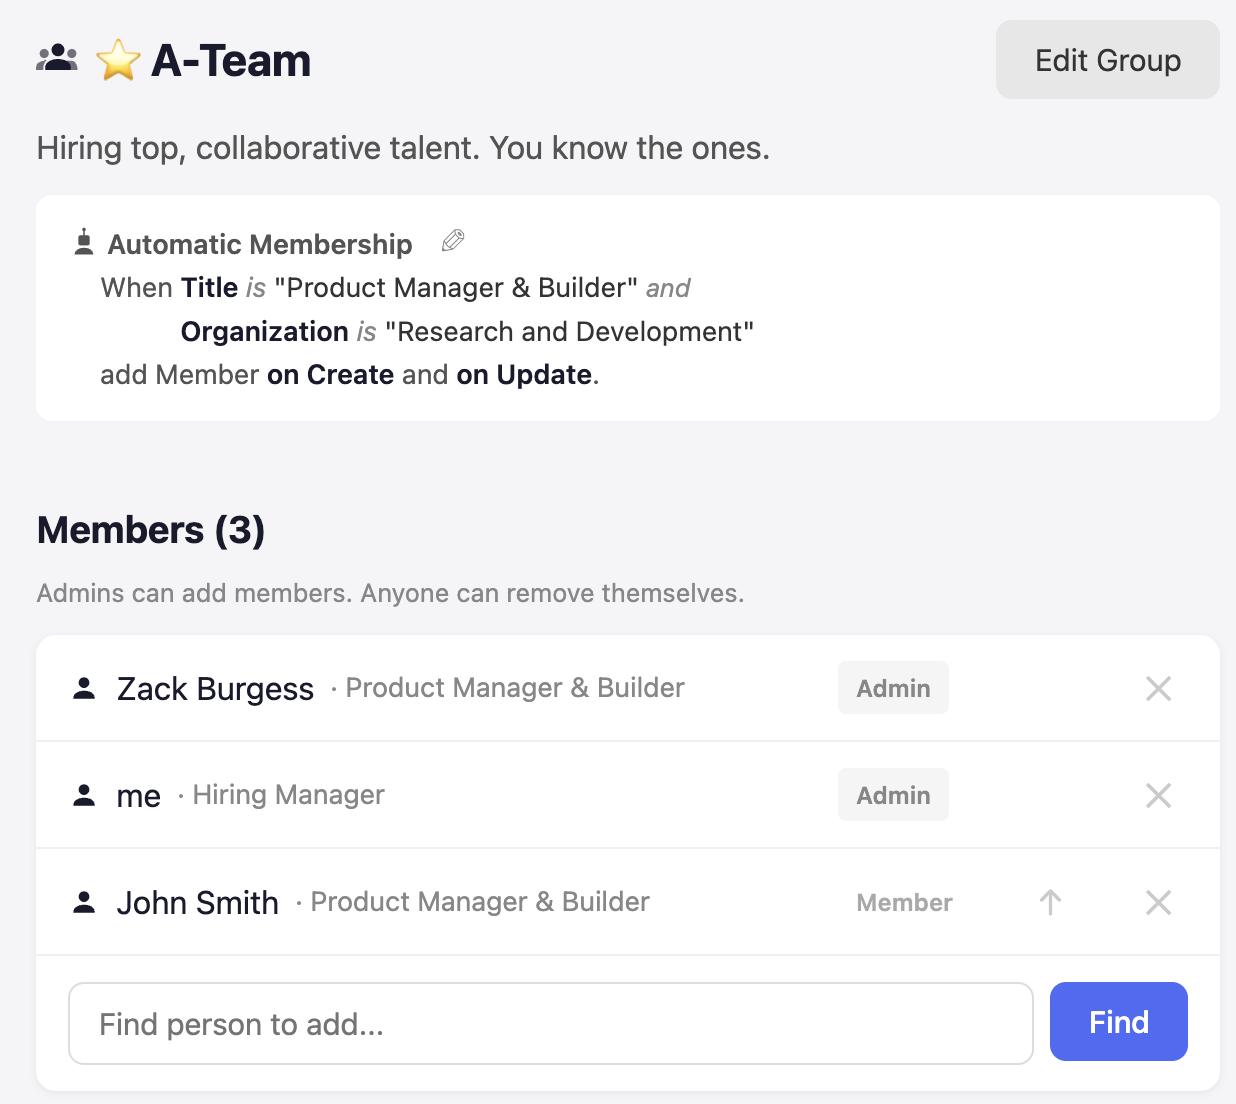
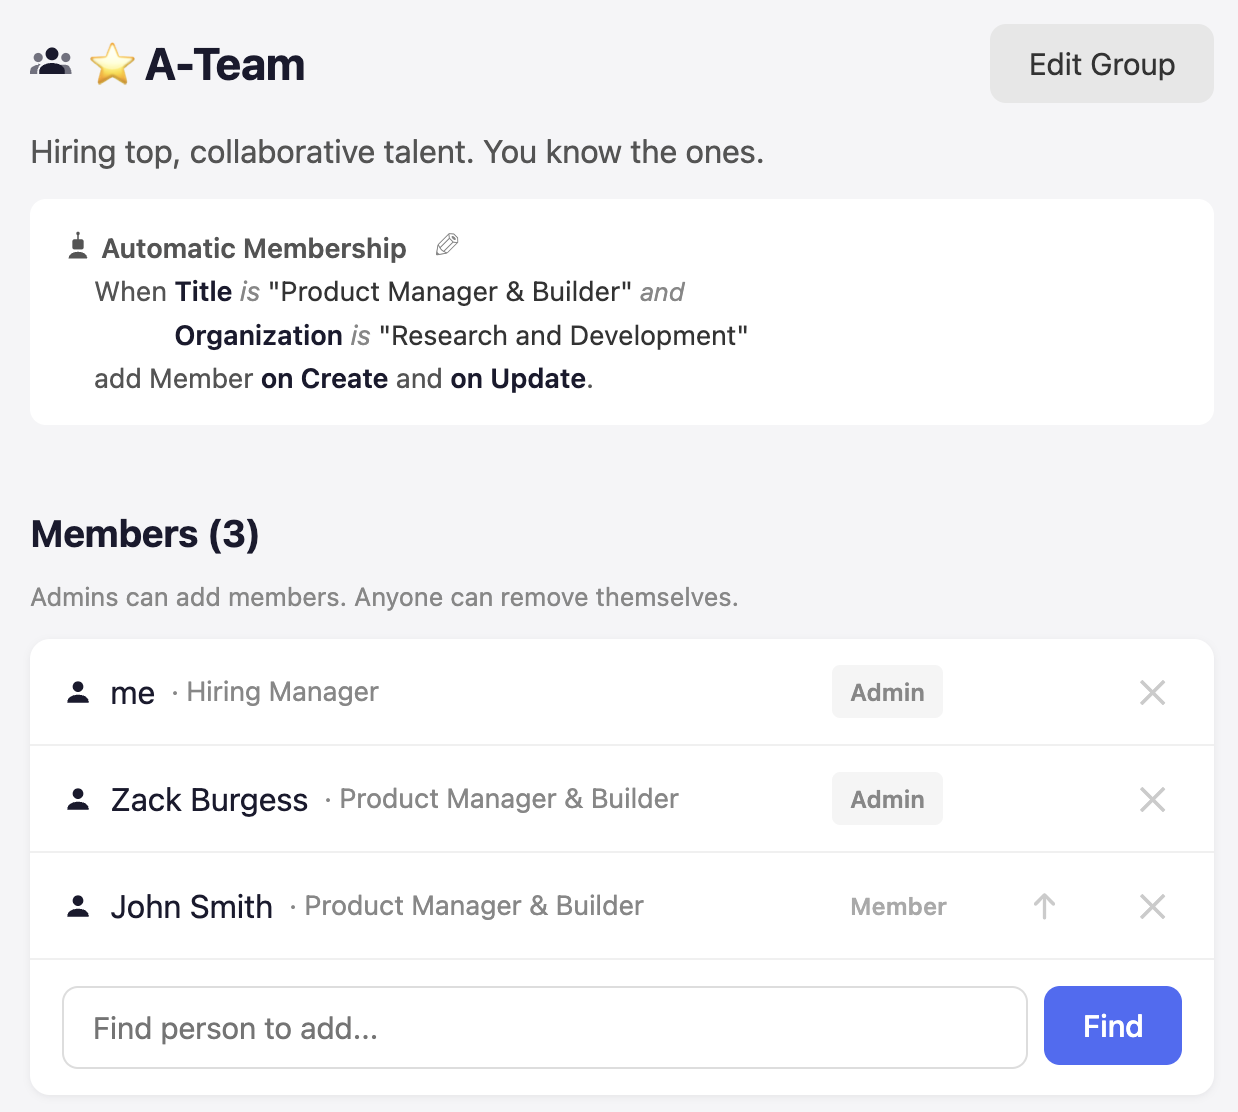
Update group screenshot and cache bust

diff --git a/README.md b/README.md
@@ -22,7 +22,7 @@ Create a new employee:
 
 They're automatically added to the group based on the rule:
 
-<img src="./docs/group_with_automatic_membership.png?v=2" alt="Group Page" width="650">
+<img src="./docs/group_with_automatic_membership.png?v=3" alt="Group Page" width="650">
 
 ## Demo
 
